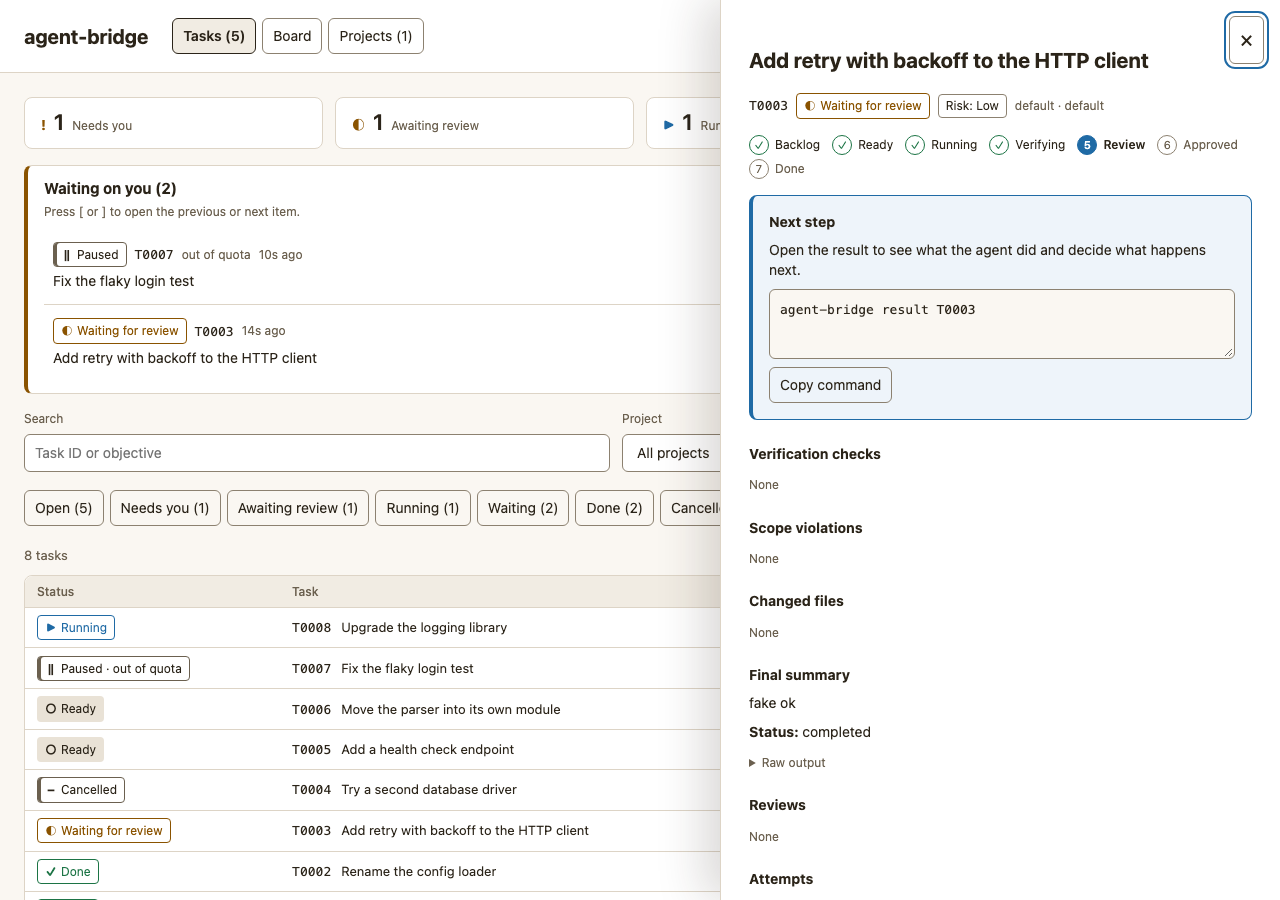
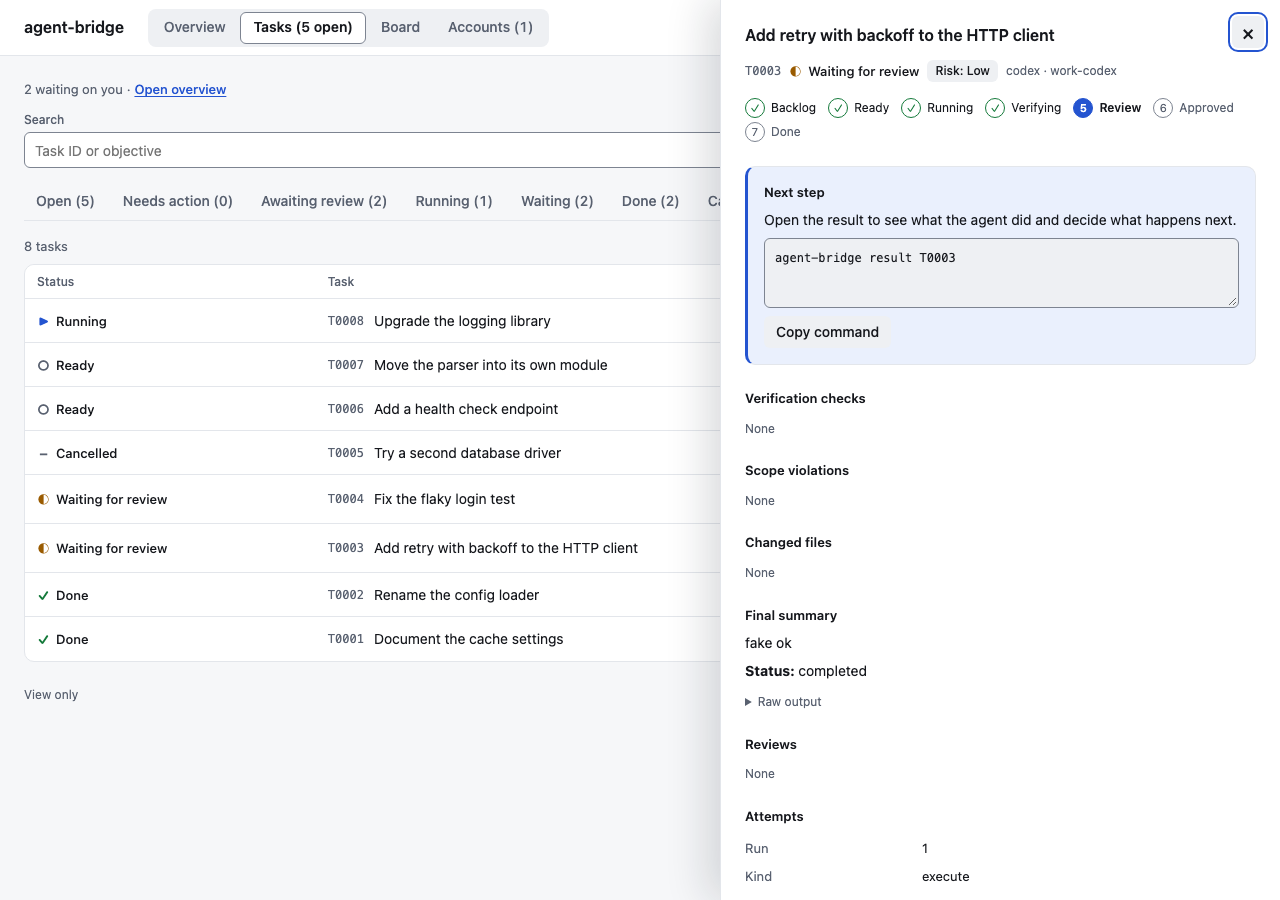
document the redesigned web dashboard and refresh its screenshots
Adds docs/design/web-dashboard.md with the audit, information architecture, tokens, components and accessibility rules, and rewrites the README web section in both languages around the overview and accounts views.

diff --git a/docs/design/web-dashboard.md b/docs/design/web-dashboard.md
@@ -1,0 +1,128 @@
+# Web dashboard design
+
+`agent-bridge web` is a read-only, localhost view of every project's bridge state. This page records
+why it looks the way it does: the audit that started the redesign, the information architecture,
+the design tokens and components, and the accessibility rules the browser tests enforce. Change
+the dashboard against this page, and change this page when a rule changes.
+
+## Who it is for
+
+One engineer running several coding agents across a few projects and accounts. They glance at the
+dashboard between other work and need to answer, in this order:
+
+1. Is anything waiting on me, and what exactly do I run?
+2. What is running right now, and is it near its time limit?
+3. Do my accounts have quota and free slots, and will a quota pause move to another account?
+4. Where is a given task, and what happened in it?
+
+The dashboard never acts. Every next step is a command to copy into a terminal, because approvals,
+logins and account changes are human-only by design.
+
+## Audit (before this redesign)
+
+Measured with the seeded sandbox used for the README screenshots (one project, eight tasks), at
+1280x800 and 390x844, light and dark.
+
+| # | Problem | Evidence | Severity |
+|---|---|---|---|
+| 1 | Capacity was invisible | A task said "out of quota", but nothing said which account, when it resets, how many slots were busy or whether quota fallback would move the work. `/api/overview` had no account data. | Critical |
+| 2 | The same fact had different numbers | "Needs you 1" (tile, chip, lane) next to "Waiting on you (2)" (queue): the queue also counts reviews. | High |
+| 3 | Controls before content | 13 controls (3 views, 2 languages, theme, search, 2 selects, group, clear, 8 chips) sat above the first task row; on a phone the header took three rows and the first task started near y = 880. | High |
+| 4 | Columns without information | With one project and one agent, Location and Agent repeated one value on every row; Next step showed "–" in 6 of 8 rows; phone cards repeated six labels per task (about 200 px each). | Medium |
+| 5 | No visual hierarchy | Navigation, filters, statuses and badges were all outlined pills of the same weight; the warm beige palette made panels and page blend. | Medium |
+
+## Benchmark
+
+[OrchestratorInc/agent-orchestrator](https://github.com/OrchestratorInc/agent-orchestrator) (its
+`DESIGN.md` and renderer source) was read for patterns, not copied. Taken as principles: truthful
+state before polish; one status slot with a glyph, so color is never the only signal; borders as
+structure rather than decoration; color only when it means something; sentence case; compact but
+44 px touch targets; detail in an inspector instead of new pages. Not taken: its sidebar shell
+(this dashboard usually shows one or two projects), its tokens, names and components, and any
+action buttons (this dashboard is view-only).
+
+## Information architecture
+
+| View | Answers | Contents |
+|---|---|---|
+| Overview (default) | Questions 1 to 3 | Summary tiles, "Waiting on you" queue with copyable commands, In progress cards with time used, account summary with the quota-fallback line, projects |
+| Tasks | Question 4 | Search, status tabs, the task table (phone: compact rows) |
+| Board | Question 4 by stage | Lanes: Needs action, In review, Running, Queued, plus Finished |
+| Accounts | Question 3 in detail | Fallback policy per project, one card per account (state, quota windows, slots, agents), recent automatic switches |
+
+The task drawer opens from every view (`t=` in the URL) and holds status, the next step, the
+lifecycle, checks, changed files, reviews and the live log. Old links keep working: `view=projects`
+opens the Overview at the projects section.
+
+Progressive disclosure: project and worktree filters appear only with more than one project,
+"Group by worktree" only when a project has worktrees, Location and Agent columns only when they
+differ between rows, the technical record of a task only when expanded in the drawer, and language
+and theme behind the settings button.
+
+## Tokens
+
+All colors live in three token blocks at the top of `bridge/static/app.css` (light, dark from the
+system setting, dark chosen in the menu); the rest of the sheet uses only `var()`.
+
+| Token | Light | Dark | Use |
+|---|---|---|---|
+| `--bg` | #F6F7F9 | #0F1115 | page |
+| `--surface` | #FFFFFF | #171A20 | panels, header, drawer |
+| `--surface-2` | #EEF0F3 | #1F232B | quiet buttons, code, lanes |
+| `--surface-3` | #E4E7EC | #2A2F38 | hover |
+| `--border` | #E3E6EB | #2A2F38 | panel and row lines |
+| `--border-strong` | #7D8491 | #6B7280 | inputs, pressed controls (3:1) |
+| `--text` | #16181D | #E8EAEE | content |
+| `--text-muted` | #596170 | #A0A7B4 | metadata, labels |
+| `--accent` | #2454D0 | #7AA2FF | focus, selection, progress |
+| `--st-needs` | #C2410C | #FB923C | needs action |
+| `--st-review` | #9A5B00 | #FBBF24 | awaiting review, quota above 80 % |
+| `--st-running` | #2454D0 | #7AA2FF | running |
+| `--st-done` | #157A3B | #4ADE80 | done, account available |
+| `--st-blocked` | #B91C1C | #F87171 | blocked, failed, login needed, quota at 100 % |
+| `--st-paused`, `--st-queue` | #596170 | #A0A7B4 | paused, queued, cancelled |
+
+Every text color reaches 4.5:1 on `--bg`, `--surface` and `--surface-2` of its theme; the browser
+audit measures it again on the rendered page.
+
+Type: system UI font; 12 / 13 / 14 (body) / 16 (section titles) / 20 px (stat values); weight 500
+for controls, 600 for headings and selected items; tabular figures for counts and times. Spacing:
+4, 8, 12, 16, 24, 32 px. Radius: 6 px for controls, 10 px for panels and cards. Shadows only on the
+drawer and the settings menu. Motion: color transitions under 150 ms, none with
+`prefers-reduced-motion`.
+
+## Components
+
+- **Status badge**: a glyph (`!` needs, `◐` review, `▶` running, `○` queued, `✓` done, `✕` failed or
+  blocked, `‖` paused, `–` cancelled) in the state color, then the label in the text color. The
+  glyph is `aria-hidden`; the label carries the meaning.
+- **Quiet button**: `--surface-2` fill, no border, 32 px (44 px on touch screens). Pressed state:
+  surface fill, strong border, weight 600.
+- **Segmented control** for the views; a fixed bottom bar on phones.
+- **Tabs** for status filters: text with a 2 px accent underline on the selected one.
+- **Panel**: surface, 1 px border, 10 px radius. No card inside a card.
+- **Command**: monospace on `--surface-2` with a copy button; copying falls back to selecting the text.
+- **Meter** for quota windows: `role="meter"` with `aria-valuenow`, a label naming the window, and the
+  percentage in text so color is never the only signal.
+- **States**: skeleton rows (hidden from screen readers, with a "Loading…" text) before the first
+  answer, an offline banner that keeps the last data visible, empty states that say what to run.
+
+## Accessibility rules
+
+- Contrast: text 4.5:1 (3:1 for large text), input borders 3:1.
+- Every control has an accessible name in English and Vietnamese; icon-only controls use
+  `aria-label`.
+- Visible focus: a 2 px accent outline on every focusable element.
+- Keyboard: `[` and `]` step through the queue, Escape closes the drawer and the settings menu and
+  returns focus.
+- Touch: 44 px targets on coarse pointers; no horizontal page scroll at 320 px.
+- Live updates: one polite announcement when the number of tasks needing action changes.
+
+## How it is checked
+
+- `tests/qa/test_e2e_web.py` with `tests/qa/web/dashboard.cjs` (Playwright, `QA_E2E=1`): loading,
+  token handling, XSS, live updates, language, theme, search, offline, phone layout, drawer, queue,
+  board, live region, the shell, the overview and the accounts view with a real quota failover.
+- A Playwright audit run on the seeded screenshot project measures contrast from computed styles,
+  accessible names, duplicate ids, focus rings on a Tab walk, touch target sizes and overflow at
+  320 and 390 px in both themes.

diff --git a/README.vi.md b/README.vi.md
@@ -264,7 +264,7 @@ agent plans:  bridge_plan → bridge_workflow_status(wait_s) → bridge_run_work
 **5. Theo dõi tiến độ** bằng `agent-bridge` (dashboard terminal) hoặc `agent-bridge web`. Xem
 [Theo dõi](#theo-dõi).
 
-<img alt="Demo dashboard web: hàng đợi task cần bạn, ngăn chi tiết mở bằng phím ], board, theme tối và tiếng Việt" src="docs/images/web-demo.gif" width="900">
+<img alt="Demo dashboard web: trang tổng quan với các task đang chờ bạn, ngăn chi tiết mở bằng phím ], view Tài khoản, board, rồi theme tối và tiếng Việt" src="docs/images/web-demo.gif" width="900">
 
 ## Cấu hình
 
@@ -556,32 +556,40 @@ giả, `HOME` mới, một project demo). Tạo lại bằng
 mặc định 8765; `--port 0` tự chọn port trống; Ctrl+C để dừng). URL được in ra chứa một token bí
 mật sinh cho mỗi lần chạy, mọi request API đều cần token này; đừng chia sẻ nó.
 
-<img alt="Web dashboard: bộ đếm việc cần chú ý, hàng đợi task đang chờ bạn và bảng task" src="docs/images/web-tasks-light.png" width="900">
+<img alt="Trang tổng quan của dashboard web: task đang chờ bạn kèm lệnh để sao chép, việc đang chạy với thời gian đã dùng, và năng lực của các tài khoản cùng chính sách chuyển dự phòng khi hết quota" src="docs/images/web-overview-light.png" width="900">
 
-Dashboard bao quát mọi dự án agent-bridge biết trên máy này cùng các git worktree của chúng:
+Dashboard bao quát mọi dự án agent-bridge biết trên máy này cùng các git worktree của chúng, chia
+thành bốn view:
 
-- **Tóm tắt và hàng đợi.** Bộ đếm task cần bạn, chờ duyệt, đang chạy và đã xong trong 24 giờ
-  qua, kèm danh sách task đang chờ bạn theo thứ tự ưu tiên của bridge, mỗi task có lệnh để sao
-  chép. Phím `[` và `]` mở task trước hoặc sau.
-- **Tasks, Board và Projects.** Bảng lọc theo từ khóa, dự án, worktree và trạng thái; board với
-  các cột Cần bạn, Đang duyệt, Đang chạy và Đang chờ (thẻ đang chạy cho biết thời gian đã chạy so
-  với timeout), việc đã xong được thu gọn bên dưới; và số liệu theo dự án, theo worktree.
+- **Tổng quan.** Những gì đang chờ bạn, theo thứ tự ưu tiên của bridge, mỗi mục có lệnh để sao
+  chép (phím `[` và `]` mở mục trước hoặc sau); các task đang chạy với thời gian đã dùng so với
+  timeout; từng tài khoản với trạng thái, số slot đang bận và quota còn lại; chuyển dự phòng khi
+  hết quota có đang bật hay không; và các dự án.
+- **Tác vụ và Bảng.** Bảng có ô tìm kiếm và tab trạng thái (bộ lọc dự án và worktree chỉ hiện khi
+  có nhiều hơn một; cột nào chỉ lặp một giá trị sẽ bị ẩn), và board với các cột Cần xử lý, Đang
+  duyệt, Đang chạy và Trong hàng đợi, việc đã xong được thu gọn bên dưới.
+- **Tài khoản.** Mỗi tài khoản một thẻ: sẵn sàng, hết quota hoặc cần đăng nhập, từng cửa sổ quota
+  là một thanh đo kèm thời điểm đặt lại, số slot đang dùng và các agent trên tài khoản đó; chính
+  sách chuyển dự phòng của từng dự án và các lần chuyển tự động gần đây, mỗi dòng mở task tương ứng.
 - **Ngăn chi tiết task.** Trạng thái, thanh tiến trình vòng đời, việc tiếp theo kèm lệnh, kết quả
   từng lệnh kiểm tra (đạt hoặc không), vi phạm phạm vi, file thay đổi, tóm tắt của agent, review,
   các lần chạy và log trực tiếp; các trường thô nằm trong *Chi tiết kỹ thuật*. Task đang chọn nằm
   trong URL nên mở lại được bằng link.
-- **Dễ đọc ở mọi nơi.** Theme sáng, tối hoặc theo hệ thống; tiếng Anh hoặc tiếng Việt; trên điện
-  thoại mỗi task là một thẻ. Trạng thái luôn có ký hiệu và nhãn, không chỉ dựa vào màu.
-- **Cập nhật trực tiếp.** Làm mới mỗi 3 giây. Khi không kết nối được bridge, dashboard báo rõ và
-  hiện thời điểm của dữ liệu cuối cùng nhận được.
 
-<img alt="Chế độ Board với theme tối" src="docs/images/web-board-dark.png" width="900">
+Dashboard làm mới mỗi 3 giây; khi không kết nối được bridge, nó báo rõ và giữ dữ liệu cuối cùng
+trên màn hình. Theme sáng, tối hoặc theo hệ thống và tiếng Anh hoặc tiếng Việt nằm trong menu cài
+đặt; trên điện thoại các view chuyển xuống thanh dưới cùng và mỗi task là một dòng gọn. Trạng thái
+luôn có ký hiệu và nhãn, không chỉ dựa vào màu. Quy tắc thiết kế và các bước kiểm tra accessibility
+nằm trong [docs/design/web-dashboard.md](docs/design/web-dashboard.md) (chỉ có bản tiếng Anh).
 
-<img alt="Ngăn chi tiết task với thanh vòng đời, việc tiếp theo và tóm tắt dễ đọc" src="docs/images/web-drawer-light.png" width="640"> <img alt="Bố cục trên điện thoại, các nút view trên một hàng" src="docs/images/web-mobile-light.png" width="240">
+<img alt="View Tài khoản với theme tối: chuyển dự phòng đang bật, cửa sổ quota của từng tài khoản và một lần chuyển tự động" src="docs/images/web-accounts-dark.png" width="900">
 
-Dashboard web chỉ đọc: nó mở từng `bridge.db` bằng SQLite `mode=ro`, không khởi chạy agent nào
-và không thực hiện thao tác nào dành cho con người. Nó chỉ lắng nghe trên `127.0.0.1` và từ chối
-các header `Host` khác.
+<img alt="Ngăn chi tiết task với thanh vòng đời, việc tiếp theo và tóm tắt dễ đọc" src="docs/images/web-drawer-light.png" width="640"> <img alt="Trang tổng quan trên điện thoại với thanh điều hướng ở dưới cùng" src="docs/images/web-mobile-light.png" width="240">
+
+Dashboard web chỉ đọc: nó mở từng `bridge.db` bằng SQLite `mode=ro`, chỉ đọc trạng thái và quota
+của tài khoản từ database đó và cấu hình dự án (không bao giờ gọi thử CLI hay đọc thư mục home
+của tài khoản), không khởi chạy agent nào và không thực hiện thao tác nào dành cho con người. Nó
+chỉ lắng nghe trên `127.0.0.1` và từ chối các header `Host` khác.
 
 ## Xử lý sự cố
 

diff --git a/README.md b/README.md
@@ -263,7 +263,7 @@ agent plans:  bridge_plan → bridge_workflow_status(wait_s) → bridge_run_work
 **5. Follow progress** with `agent-bridge` (terminal dashboard) or `agent-bridge web`. See
 [Monitoring](#monitoring).
 
-<img alt="Web dashboard demo: the queue of tasks that need you, the task drawer opened with ], the board, the dark theme and Vietnamese" src="docs/images/web-demo.gif" width="900">
+<img alt="Web dashboard demo: the overview with the tasks waiting on you, the task drawer opened with ], the accounts view, the board, then the dark theme and Vietnamese" src="docs/images/web-demo.gif" width="900">
 
 ## Configuration
 
@@ -556,31 +556,40 @@ CLIs, a fresh `HOME`, a demo project). Regenerate them with
 8765; `--port 0` picks a free one; Ctrl+C stops it). The printed URL carries a per-launch secret
 token that every API request needs; do not share it.
 
-<img alt="Web dashboard: attention counters, the queue of tasks waiting on you, and the task table" src="docs/images/web-tasks-light.png" width="900">
+<img alt="Web dashboard overview: tasks waiting on you with the command to copy, work in progress with time used, and account capacity with the quota-fallback policy" src="docs/images/web-overview-light.png" width="900">
 
-It covers every project agent-bridge knows on this machine and their git worktrees:
+It covers every project agent-bridge knows on this machine and their git worktrees, in four
+views:
 
-- **Summary and queue.** Counters for tasks that need you, wait for review, run, and finished in
-  the last 24 hours, then the tasks waiting on you in the bridge's priority order, each with the
-  command to copy. `[` and `]` open the previous or next one.
-- **Tasks, Board and Projects.** A table filtered by search, project, worktree and status; a board
-  with Needs you, In review, Running and Queued lanes (a running card shows elapsed time against
-  its timeout) and finished work folded underneath; and counts per project and worktree.
+- **Overview.** What is waiting on you, in the bridge's priority order, each with the command to
+  copy (`[` and `]` open the previous or next one); the tasks running now with time used against
+  their timeout; every account with its state, busy slots and quota left; whether quota fallback
+  is on; and the projects.
+- **Tasks and Board.** A searchable table with status tabs (project and worktree filters appear
+  when there is more than one; columns that would repeat one value are left out), and a board with
+  Needs action, In review, Running and Queued lanes and finished work folded underneath.
+- **Accounts.** One card per account: available, out of quota or login needed, each quota window
+  as a meter with its reset time, slots in use and the agents on it; the quota-fallback policy of
+  each project and the recent automatic switches, each opening its task.
 - **Task drawer.** Status, a lifecycle stepper, the next step with its command, verification
   checks as pass or fail, scope violations, changed files, the agent's summary, reviews, attempts
   and the live attempt log; raw fields sit under *Technical details*. The selection is part of the
   URL, so a link reopens it.
-- **Readable anywhere.** Light, dark or the system theme; English or Vietnamese; on a phone each
-  task becomes a card. A state is shown by a symbol and a label, never by color alone.
-- **Live.** It refreshes every 3 s. When the bridge cannot be reached it says so and shows the
-  time of the last data it received.
 
-<img alt="Board view in the dark theme" src="docs/images/web-board-dark.png" width="900">
+It refreshes every 3 s and says when the bridge cannot be reached, keeping the last data on screen.
+Light, dark or the system theme and English or Vietnamese sit in the settings menu; on a phone the
+views move to a bottom bar and each task becomes a compact row. A state is shown by a symbol and a
+label, never by color alone. The design rules and the accessibility checks are in
+[docs/design/web-dashboard.md](docs/design/web-dashboard.md).
 
-<img alt="Task drawer with the lifecycle stepper, next step and readable final summary" src="docs/images/web-drawer-light.png" width="640"> <img alt="Phone layout with view buttons in one row" src="docs/images/web-mobile-light.png" width="240">
+<img alt="Accounts view in the dark theme: quota fallback on, quota windows per account, and an automatic switch" src="docs/images/web-accounts-dark.png" width="900">
 
-The web dashboard is read-only: it opens each `bridge.db` with SQLite `mode=ro`, starts no agent
-and performs no human action. It listens on `127.0.0.1` only and rejects other `Host` headers.
+<img alt="Task drawer with the lifecycle stepper, next step and readable final summary" src="docs/images/web-drawer-light.png" width="640"> <img alt="Phone layout of the overview with the bottom navigation bar" src="docs/images/web-mobile-light.png" width="240">
+
+The web dashboard is read-only: it opens each `bridge.db` with SQLite `mode=ro`, reads account
+state and quota only from that database and the project config (it never probes a CLI or reads an
+account home), starts no agent and performs no human action. It listens on `127.0.0.1` only and
+rejects other `Host` headers.
 
 ## Troubleshooting
 

diff --git a/CHANGELOG.md b/CHANGELOG.md
@@ -50,6 +50,8 @@ and this project adheres to [Semantic Versioning](https://semver.org/spec/v2.0.0
   meaningful progress events on stderr.
 
 ### Changed
+- Web dashboard redesign. An Overview home answers what is waiting on you (with the command to copy), what is running (time used against the timeout) and whether your accounts have quota and free slots, with the quota-fallback policy in one line. A new Accounts view shows one card per account (state, each quota window as a meter with its reset, slots in use, agents) plus each project's fallback policy and the recent automatic switches. The shell is one segmented view control with language and theme in a settings menu (a bottom bar on phones), status filters are tabs, columns and filters that would repeat one value are hidden, and colors, type and spacing come from one token set in both themes. `view=projects` links open the Overview. Design rules and the accessibility checks are in `docs/design/web-dashboard.md`.
+- `/api/overview` gains `accounts` (state, quota windows, running and `max_concurrency`, agents and projects per account), `switches` (automatic quota switches of the last 7 days) and a `fallback` policy per project, read only from each project's database and config. Existing fields are unchanged.
 - Web dashboard reworked around what needs you. A summary row counts tasks that need you, wait for review, run, and finished in the last 24 hours; a queue lists the tasks waiting on you in the bridge's priority order with the command to copy (`[` and `]` step through them). A Board view groups tasks into Needs you, In review, Running (elapsed time against the timeout) and Queued lanes, with finished work folded underneath. Every state shows a symbol and a label, not color alone, and a polite live region announces when the number of tasks needing you changes.
 - Dashboard task drawer: status, a lifecycle stepper and the next step with its command come first; verification checks read as pass or fail; the agent's final JSON is shown as summary, notes, tests and files, with the raw text kept below; raw fields are folded under *Technical details*. The page behind the drawer is `inert` while it is open.
 - Dashboard states and themes: a loading skeleton instead of a false "no task matches" before the first response; an offline banner with the time of the last data; light, dark and system themes from color tokens (stored per browser); on a phone each task is a card with labelled fields and the view buttons share one row. `/api/overview` and every other API are unchanged.
